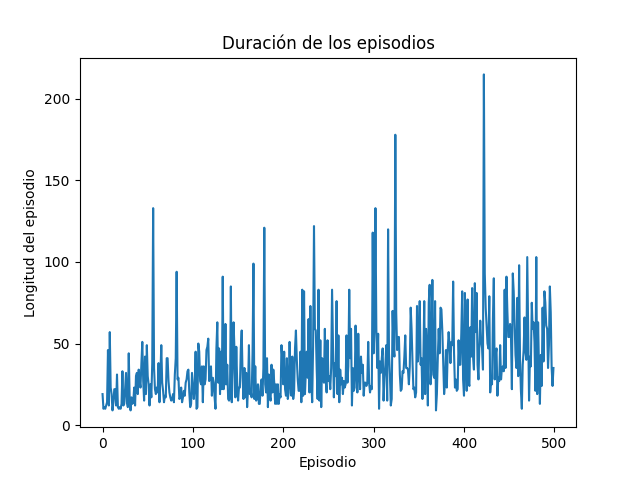
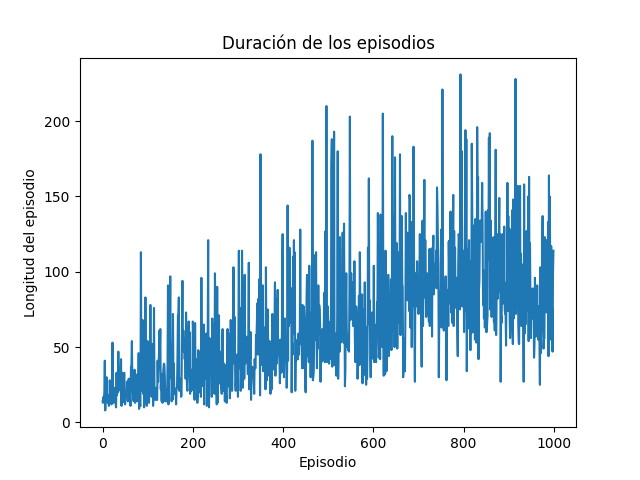
new reward

diff --git a/cartpole/mi_reward.py b/cartpole/mi_reward.py
@@ -1,24 +1,56 @@
 def get_new_reward(obs):
-    cart_position, cart_velocity, pole_angle, pole_velocity = obs
-    
-    # Penalize for being close to the termination boundaries
-    # Cart position penalty
-    cart_pos_penalty = 0
-    if abs(cart_position) > 2.0:  # Closer to the edge
-        cart_pos_penalty = (abs(cart_position) - 2.0) * 0.5 
-        
-    # Pole angle penalty
-    pole_angle_penalty = 0
-    if abs(pole_angle) > 0.15: # Closer to the termination angle
-        pole_angle_penalty = (abs(pole_angle) - 0.15) * 1.0
+    """
+    Calculates a new reward based on the observation of the CartPole environment.
 
-    # Penalize for high velocities (less stable)
-    velocity_penalty = abs(cart_velocity) * 0.1 + abs(pole_velocity) * 0.2
+    The reward is shaped to encourage the agent to keep the pole balanced and the cart within bounds.
+    A higher reward is given for states closer to the upright position and centered cart.
+    Penalties are applied for states that are close to termination conditions.
 
-    # Base reward for staying alive
-    reward = 1.0 - cart_pos_penalty - pole_angle_penalty - velocity_penalty
+    Args:
+        obs (np.ndarray): The observation from the environment, containing:
+            - obs[0]: Cart Position
+            - obs[1]: Cart Velocity
+            - obs[2]: Pole Angle
+            - obs[3]: Pole Angular Velocity
+
+    Returns:
+        float: The shaped reward.
+    """
+    import numpy as np
     
-    # Ensure reward is not negative, though the penalties are designed to be small
-    reward = max(0, reward) 
-    
-    return reward
+    cart_pos, cart_vel, pole_angle, pole_vel = obs
+
+    # Define termination boundaries for clarity
+    max_cart_pos = 2.4
+    max_pole_angle = np.deg2rad(12)  # 12 degrees in radians
+
+    # Reward for keeping the pole upright
+    # Closer to 0 angle gives a higher reward
+    pole_reward = 1.0 - abs(pole_angle) / max_pole_angle
+
+    # Reward for keeping the cart within bounds
+    # Closer to 0 position gives a higher reward
+    cart_reward = 1.0 - abs(cart_pos) / max_cart_pos
+
+    # Combine rewards, with pole angle being more critical
+    # You can adjust these weights based on empirical results
+    shaped_reward = 0.5 * pole_reward + 0.5 * cart_reward
+
+    # Add a small penalty for velocity to encourage stability
+    # This is a subtle shaping and might not be strictly necessary
+    velocity_penalty = -0.01 * (abs(cart_vel) + abs(pole_vel))
+
+    # Ensure the reward is not excessively large or small, and avoid large negative rewards
+    # that could destabilize learning.
+    final_reward = shaped_reward + velocity_penalty
+
+    # Clip the reward to prevent extreme values, especially near termination
+    # A small positive reward for staying alive is generally good.
+    # If the episode is about to terminate, the reward should reflect that.
+    if abs(pole_angle) > max_pole_angle * 0.8 or abs(cart_pos) > max_cart_pos * 0.8:
+        final_reward -= 0.5  # Stronger penalty when close to termination
+
+    # Ensure a minimum positive reward for simply surviving a step
+    # This helps prevent the agent from getting stuck in states with zero or negative rewards
+    # if the shaping is too aggressive.
+    return max(final_reward, 0.1)

diff --git a/cartpole/train_base.py b/cartpole/train_base.py
@@ -11,10 +11,10 @@ print(f"Using {device} device")
 
 
 # --------------- Variables -------------------
-MODEL_NAME = "model/policy_cartpole_frompy.pt"
+MODEL_NAME = "model/policy_cartpole_base.pt"
 RESULT_REWARD = "result/returns_base.png"
 RESULT_LENGTH = "result/lengths_base.png"
-NRO_EPISODES = 500
+NRO_EPISODES = 1000
 
 
 # --------------- RL Algorithm ----------------

diff --git a/cartpole/train_modified.py b/cartpole/train_modified.py
@@ -16,7 +16,7 @@ print(f"Using {device} device")
 MODEL_NAME = "model/policy_cartpole_modified.pt"
 RESULT_REWARD = "result/returns_modified.png"
 RESULT_LENGTH = "result/lengths_modified.png"
-NRO_EPISODES = 500
+NRO_EPISODES = 1000
 
 
 # --------------- RL Algorithm ----------------

diff --git a/cartpole/test.py b/cartpole/test.py
@@ -7,7 +7,7 @@ import gymnasium as gym
 import torch
 from torch import nn
 
-MODEL_WEIGHTS = "model/policy_cartpole_modified.pt"
+MODEL_WEIGHTS = "model/policy_cartpole_base.pt"
 
 
 device = torch.accelerator.current_accelerator().type if torch.accelerator.is_available() else "cpu"
